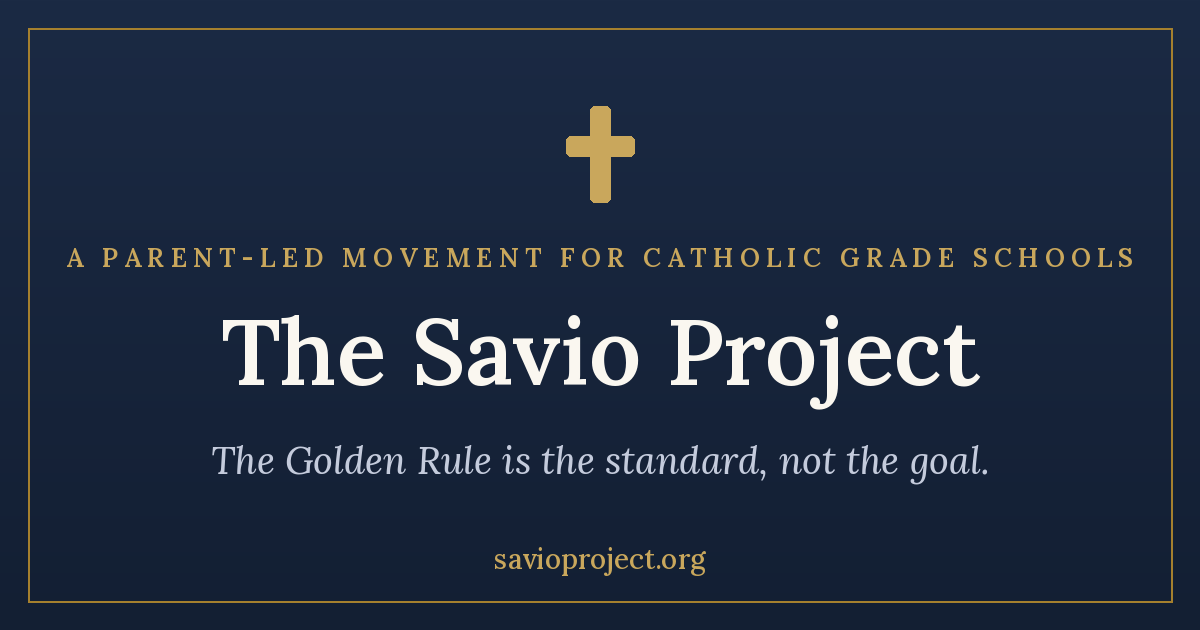
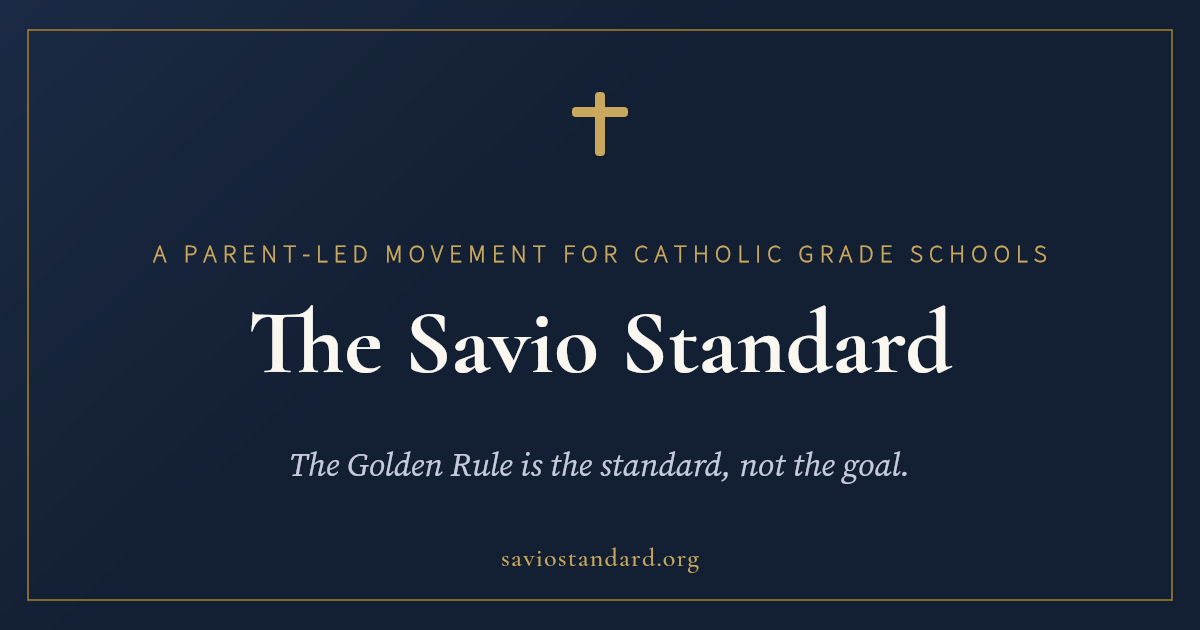
reference new entity

diff --git a/docs/strategic-plan.md b/docs/strategic-plan.md
@@ -8,7 +8,7 @@
 >
 > "I can't do big things, but I want everything I do, even the smallest thing, to be for the greater glory of God." — St. Dominic Savio
 
-*© 2026 [Steward Entity]. Working draft for invited reviewers. Provided for informational and planning purposes only, "as is," without warranty; nothing here is legal, medical, psychological, or other professional advice, and anyone applying these ideas does so voluntarily and at their own risk. Program names are working titles. Third-party marks belong to their respective owners and imply no affiliation or endorsement. See [LICENSE.md](../LICENSE.md) and [Stewardship & Operations](stewardship-and-operations.md).*
+*© 2026 Savio Standard. Working draft for invited reviewers. Provided for informational and planning purposes only, "as is," without warranty; nothing here is legal, medical, psychological, or other professional advice, and anyone applying these ideas does so voluntarily and at their own risk. Program names are working titles. Third-party marks belong to their respective owners and imply no affiliation or endorsement. See [LICENSE.md](../LICENSE.md) and [Stewardship & Operations](stewardship-and-operations.md).*
 
 ---
 
@@ -228,7 +228,7 @@ No incident reporting, no logging of conflicts, no naming of children in any sto
 
 How the organization operates — entity structure, licensing, terms of use, safety guidance, and sustainability — lives in a companion document, [Stewardship & Operations](stewardship-and-operations.md), so that this plan stays about the mission. What belongs here is the short version and the guardrails that shape daily culture.
 
-**The short version.** The organization publishes a free framework and stewards its content, name, and app; the local groups that adopt it — Savio Communities — are independent, self-organizing parent groups responsible for their own activities. [Steward Entity] serves as steward of the Project's intellectual property until a dedicated entity is formed, under a published [Stewardship Commitment](stewardship-commitment.md) whose first promise is that the mission is free for families, forever.
+**The short version.** The organization publishes a free framework and stewards its content, name, and app; the local groups that adopt it — Savio Communities — are independent, self-organizing parent groups responsible for their own activities. Savio Standard serves as steward of the Project's intellectual property until a dedicated entity is formed, under a published [Stewardship Commitment](stewardship-commitment.md) whose first promise is that the mission is free for families, forever.
 
 Standing guardrails, adopted at founding and printed in every manual: children are never named in written or digital records; facilitators never adjudicate and never carry information out of the room; the Project never publicly criticizes the school or parish; no Project channel may be used to discuss a specific family's situation; no Project platform carries messaging or user-generated content — the Project will not build for parents the very medium it trains children to resist; safeguarding escalations (Section 8.5) override every confidentiality norm; and leadership roles rotate on two-year terms.
 

diff --git a/CLA.md b/CLA.md
@@ -6,7 +6,7 @@ Thank you for contributing. This agreement exists for one reason: the project's 
 
 By stating in a pull request that you agree to this CLA, you accept the following for that and all future contributions:
 
-1. **Definitions.** "Contribution" means any original work of authorship you intentionally submit to the project. "Steward" means [Steward Entity], the project's designated rights steward, and its successors (including any nonprofit to which the project's assets are transferred).
+1. **Definitions.** "Contribution" means any original work of authorship you intentionally submit to the project. "Steward" means Savio Standard, the project's designated rights steward, and its successors (including any nonprofit to which the project's assets are transferred).
 
 2. **License grant.** You grant the steward a perpetual, worldwide, non-exclusive, royalty-free, irrevocable license to use, reproduce, modify, adapt, publish, translate, distribute, publicly display, and sublicense your contribution, and to license it under any terms the steward chooses — including the project's public license (CC BY-NC-SA 4.0) and commercial licenses whose proceeds support the mission — consistent with the [Stewardship Commitment](docs/stewardship-commitment.md).
 

diff --git a/LICENSE.md b/LICENSE.md
@@ -1,6 +1,6 @@
 # License
 
-**© 2026 [Steward Entity]. Working draft.**
+**© 2026 Savio Standard. Working draft.**
 
 All content in this repository is licensed under the **Creative Commons Attribution-NonCommercial-ShareAlike 4.0 International License (CC BY-NC-SA 4.0)**, except as noted below.
 

diff --git a/README.md b/README.md
@@ -6,7 +6,7 @@
 >
 > "I can't do big things, but I want everything I do, even the smallest thing, to be for the greater glory of God." — St. Dominic Savio
 
-**Status: working draft — pilot planning.** The project name is a working title; the final name belongs to the founding team. The steward entity is not yet designated and appears throughout as `[Steward Entity]`.
+**Status: working draft — pilot planning.** The project name is a working title; the final name belongs to the founding team. The steward entity is Savio Standard, serving in that capacity until a dedicated entity is formed.
 
 > ### 📖 Start here: the [Strategic Plan](docs/strategic-plan.md)
 >

diff --git a/docs/stewardship-and-operations.md b/docs/stewardship-and-operations.md
@@ -1,6 +1,6 @@
 # Stewardship & Operations
 
-*The Savio Standard (working title) — companion to the [Strategic Plan](strategic-plan.md) · Working draft · © 2026 [Steward Entity]*
+*The Savio Standard (working title) — companion to the [Strategic Plan](strategic-plan.md) · Working draft · © 2026 Savio Standard*
 
 ## 1. Purpose
 

diff --git a/docs/stewardship-commitment.md b/docs/stewardship-commitment.md
@@ -2,7 +2,7 @@
 
 *The Savio Standard (working title) · Patrons: St. Dominic Savio & St. John Bosco · Working draft*
 
-This Project belongs to the families who live it. But someone must hold the pen, keep the website running, and answer for the whole — a steward: **[Steward Entity]**, serving until a dedicated entity is formed, acting solely in that capacity — separate from its owner's company and products — and making these commitments publicly, binding itself and any successor:
+This Project belongs to the families who live it. But someone must hold the pen, keep the website running, and answer for the whole — a steward: **Savio Standard**, serving until a dedicated entity is formed, acting solely in that capacity — separate from its owner's company and products — and making these commitments publicly, binding itself and any successor:
 
 1. **Free for families, forever.** The Project's own assets — the core content (covenant, glossary, playbooks, formation materials) and the Project website that delivers it — are free to every family and every school. Participation will never carry a price.
 

diff --git a/docs/why-a-steward.md b/docs/why-a-steward.md
@@ -10,7 +10,7 @@ Because the law gives every piece of writing an owner automatically, whether we 
 
 ## Who is the steward, and why them?
 
-Someone has to go first: buy the domain, pay the hosting, file the paperwork, carry the insurance, and do it before there is any money or any certainty this succeeds. For now that is **[Steward Entity]** — expected to be a founder-managed entity acting under the Project's own registered name — until the founding team settles the designation and, eventually, a dedicated entity is formed. The steward role is temporary by design: the written commitments require handing the mission assets to a dedicated nonprofit when the Project grows into one.
+Someone has to go first: buy the domain, pay the hosting, file the paperwork, carry the insurance, and do it before there is any money or any certainty this succeeds. For now that is **Savio Standard** — expected to be a founder-managed entity acting under the Project's own registered name — until the founding team settles the designation and, eventually, a dedicated entity is formed. The steward role is temporary by design: the written commitments require handing the mission assets to a dedicated nonprofit when the Project grows into one.
 
 ## Isn't this a power move?
 